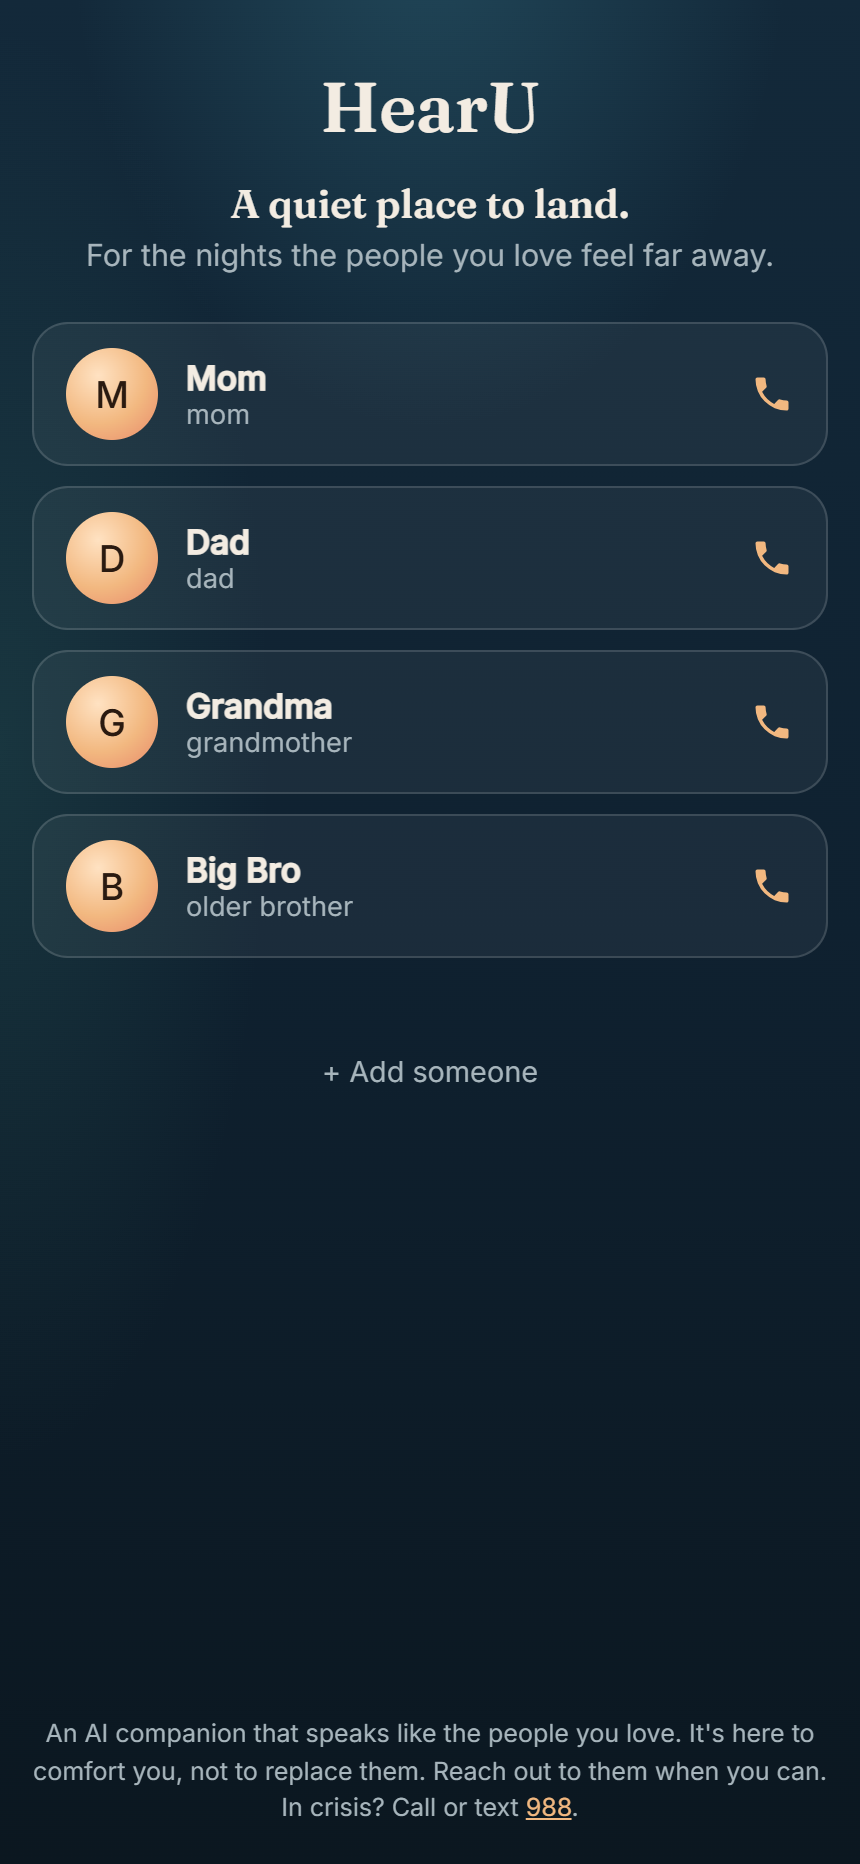
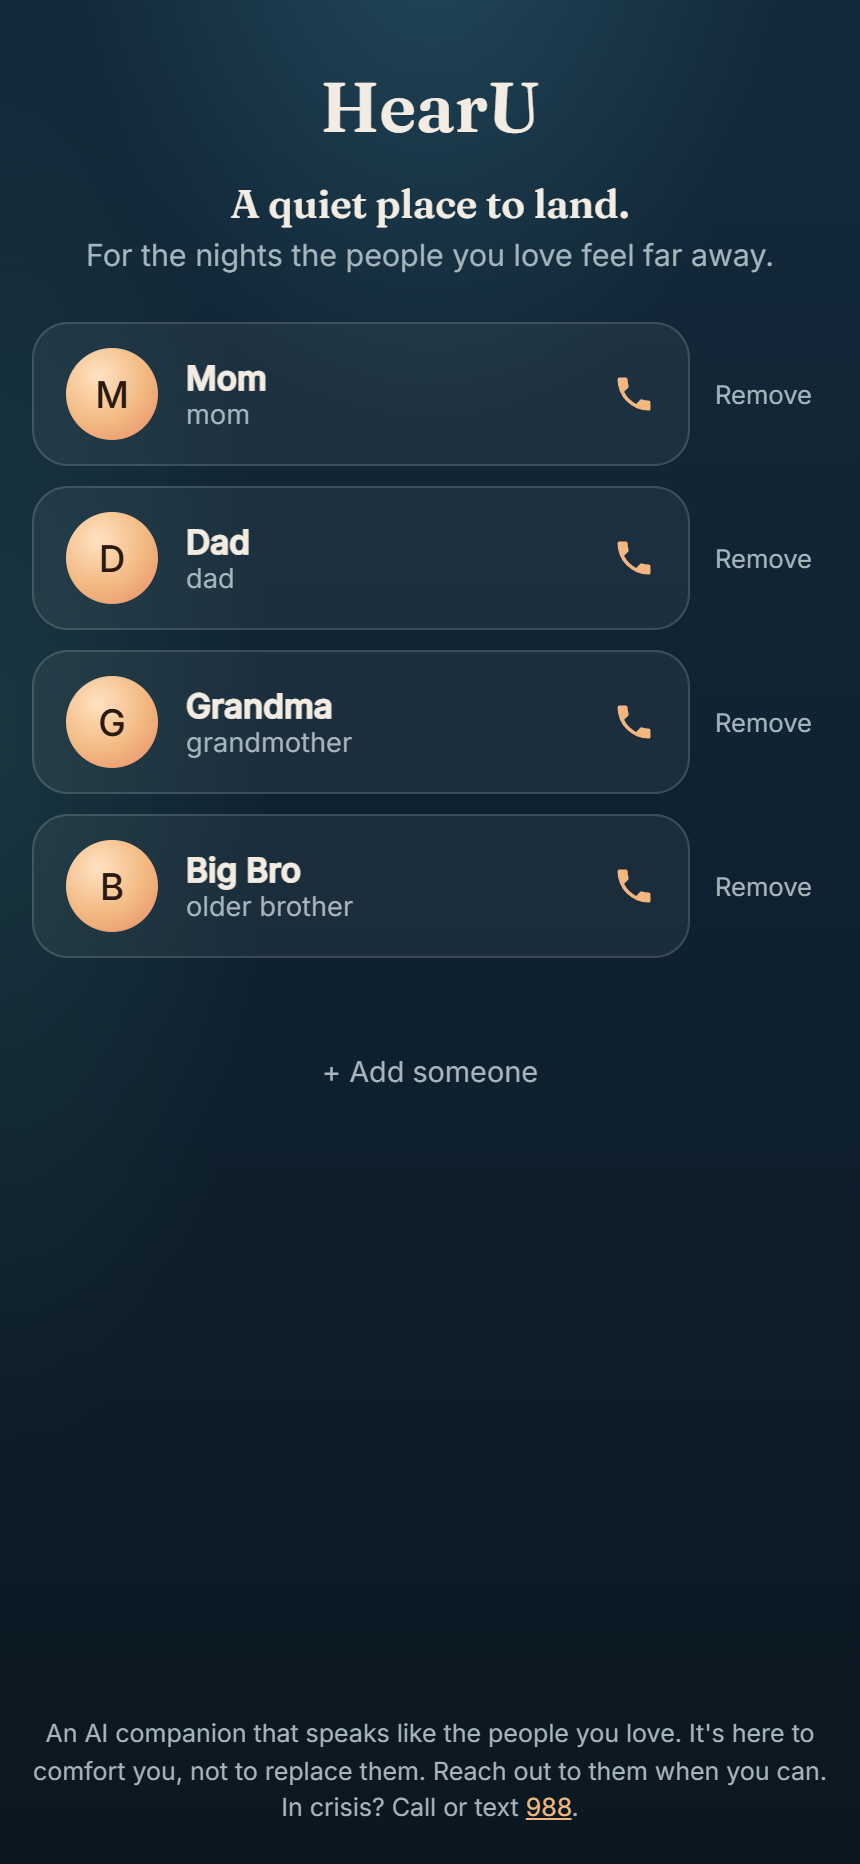
Let the four default contacts be removed too
Mom, Dad, Grandma and Big Bro now have a Remove button like people you
add. A removed default is only hidden in this browser, and a "Bring
back ..." link restores it ("Bring back Mom and Dad"). Removing
everyone shows "No one here yet. Add someone you miss." The README,
the contacts screenshot and the Devpost hero image are updated.

diff --git a/web/public/index.html b/web/public/index.html
@@ -83,6 +83,7 @@
   .who .tag { color: var(--warm); }
   .phone { flex: none; width: 22px; height: 22px; color: var(--warm); }
   button.remove { background: none; color: var(--muted); padding: 8px; font-size: 0.8rem; font-weight: 400; }
+  .empty { text-align: center; color: var(--muted); margin: 28px 0 8px; }
 
   /* add someone */
   form.person { display: flex; flex-direction: column; gap: 14px; margin-top: 20px; }
@@ -261,8 +262,10 @@
       <p class="tagline">For the nights the people you love feel far away.</p>
     </header>
     <ul id="contactList" class="contacts"></ul>
+    <p id="noContacts" class="empty hidden">No one here yet. Add someone you miss.</p>
     <p id="contactsError" class="status"></p>
     <button id="addBtn" class="secondary">+ Add someone</button>
+    <button id="restoreBtn" class="secondary hidden"></button>
   </section>
 
   <section id="add" class="screen hidden">
@@ -427,6 +430,14 @@ function loadCustom() {
 function saveCustom(list) {
   try { localStorage.setItem(STORE, JSON.stringify(list)); } catch {}
 }
+
+// Default contacts you removed. They're only hidden in this browser, so they can come back.
+const HIDDEN = "nearby.hiddenPresets";
+let hidden = (() => { try { return JSON.parse(localStorage.getItem(HIDDEN)) || []; } catch { return []; } })();
+function setHidden(ids) {
+  hidden = ids;
+  try { localStorage.setItem(HIDDEN, JSON.stringify(ids)); } catch {}
+}
 function getPasscode() {
   try { return localStorage.getItem("passcode") || ""; } catch { return ""; }
 }
@@ -482,11 +493,21 @@ function contactItem(p, onCall, onRemove) {
   return li;
 }
 
+// "Mom", "Mom and Dad", "Mom, Dad and Grandma"
+function joinNames(people) {
+  const names = people.map((p) => p.name);
+  return names.length < 2 ? names.join("") : `${names.slice(0, -1).join(", ")} and ${names.at(-1)}`;
+}
+
 function renderContacts() {
   const list = $("contactList");
   list.textContent = "";
   for (const p of presets) {
-    list.append(contactItem(p, () => startCall(p.name, { person: p.id })));
+    if (hidden.includes(p.id)) continue;
+    list.append(contactItem(p, () => startCall(p.name, { person: p.id }), () => {
+      setHidden([...hidden, p.id]);
+      renderContacts();
+    }));
   }
   for (const p of loadCustom()) {
     list.append(contactItem(p, () => startCall(p.name, { custom: p }), () => {
@@ -494,6 +515,10 @@ function renderContacts() {
       renderContacts();
     }));
   }
+  const removed = presets.filter((p) => hidden.includes(p.id));
+  $("restoreBtn").textContent = `Bring back ${joinNames(removed)}`;
+  $("restoreBtn").classList.toggle("hidden", !removed.length);
+  $("noContacts").classList.toggle("hidden", list.children.length > 0 || !!$("contactsError").textContent);
 }
 
 async function loadPeople() {
@@ -652,6 +677,7 @@ function resetAddForm() {
 }
 
 $("addBtn").addEventListener("click", () => { resetAddForm(); show("add"); addForm.elements.name.focus(); });
+$("restoreBtn").addEventListener("click", () => { setHidden([]); renderContacts(); });
 $("cancelAdd").addEventListener("click", () => { resetAddForm(); show("contacts"); });
 
 addForm.addEventListener("submit", async (e) => {

diff --git a/README.md b/README.md
@@ -40,7 +40,8 @@ them when you can. It's built to bring people closer, not to replace them.
 ## What it does
 
 - **Loved ones, ready to call.** Mom, Dad, Grandma and Big Bro, each with their own voice, speaking
-  pace and way of talking.
+  pace and way of talking. Remove any of them, or anyone you add; a removed default comes back
+  with one tap.
 - **Add someone.** Their name, what they call you, how they talk, and a voice. Saved in your browser only.
 - **Use their real voice.** Record them for 20 to 60 seconds or upload a voice memo, confirm they
   said it's okay, and HearU copies their voice with Cartesia.
@@ -158,7 +159,7 @@ API keys live only in Vercel's environment variables.
 - A copied voice is only as good as the recording: one person, a quiet room, at least 10 seconds.
 - The camera sends a still photo per message, not live video, so they react to how you look
   when you speak, not to everything in between.
-- People you add live in one browser's storage, not an account.
+- People you add, and defaults you remove, are saved in one browser, not an account.
 - The free Cartesia plan covers about 20,000 spoken characters a month (roughly 100 replies).
 - It's a comfort companion, not a therapist or a crisis service. It points to 988 when needed.
 
